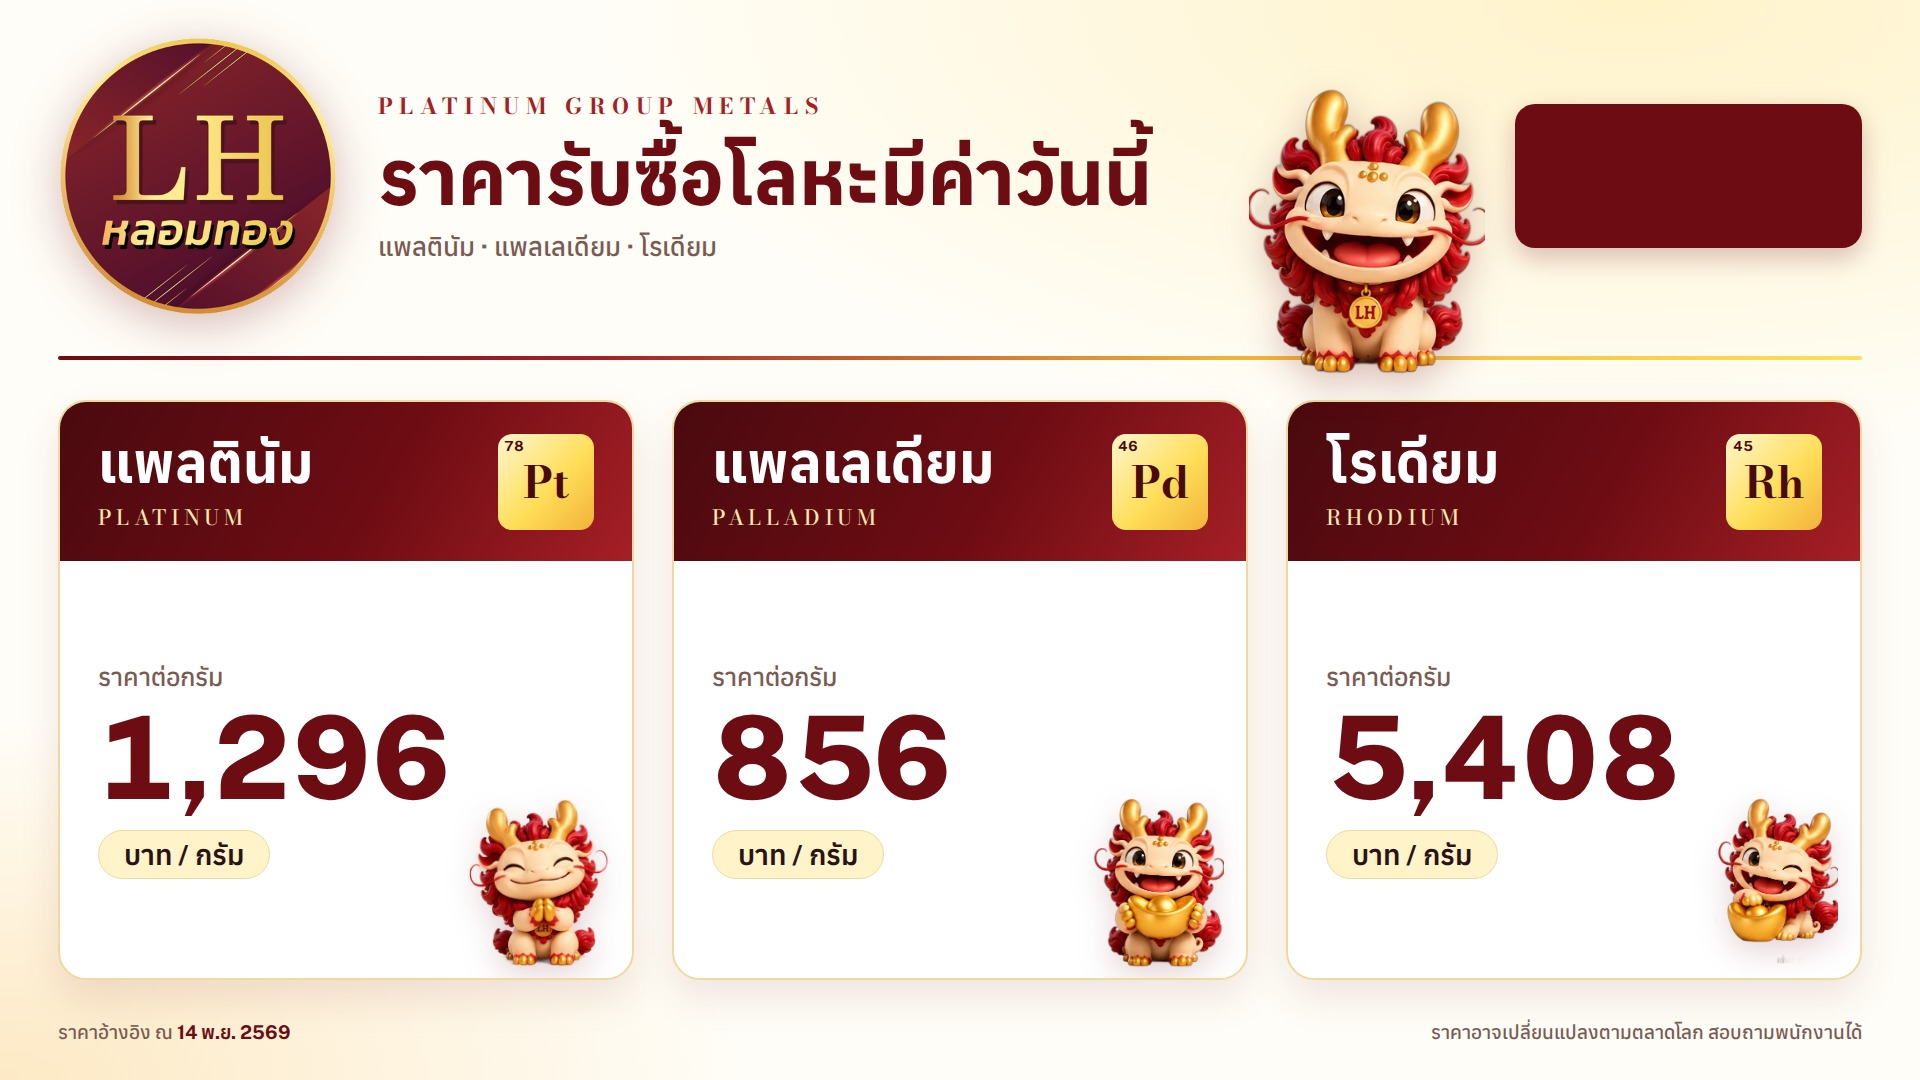
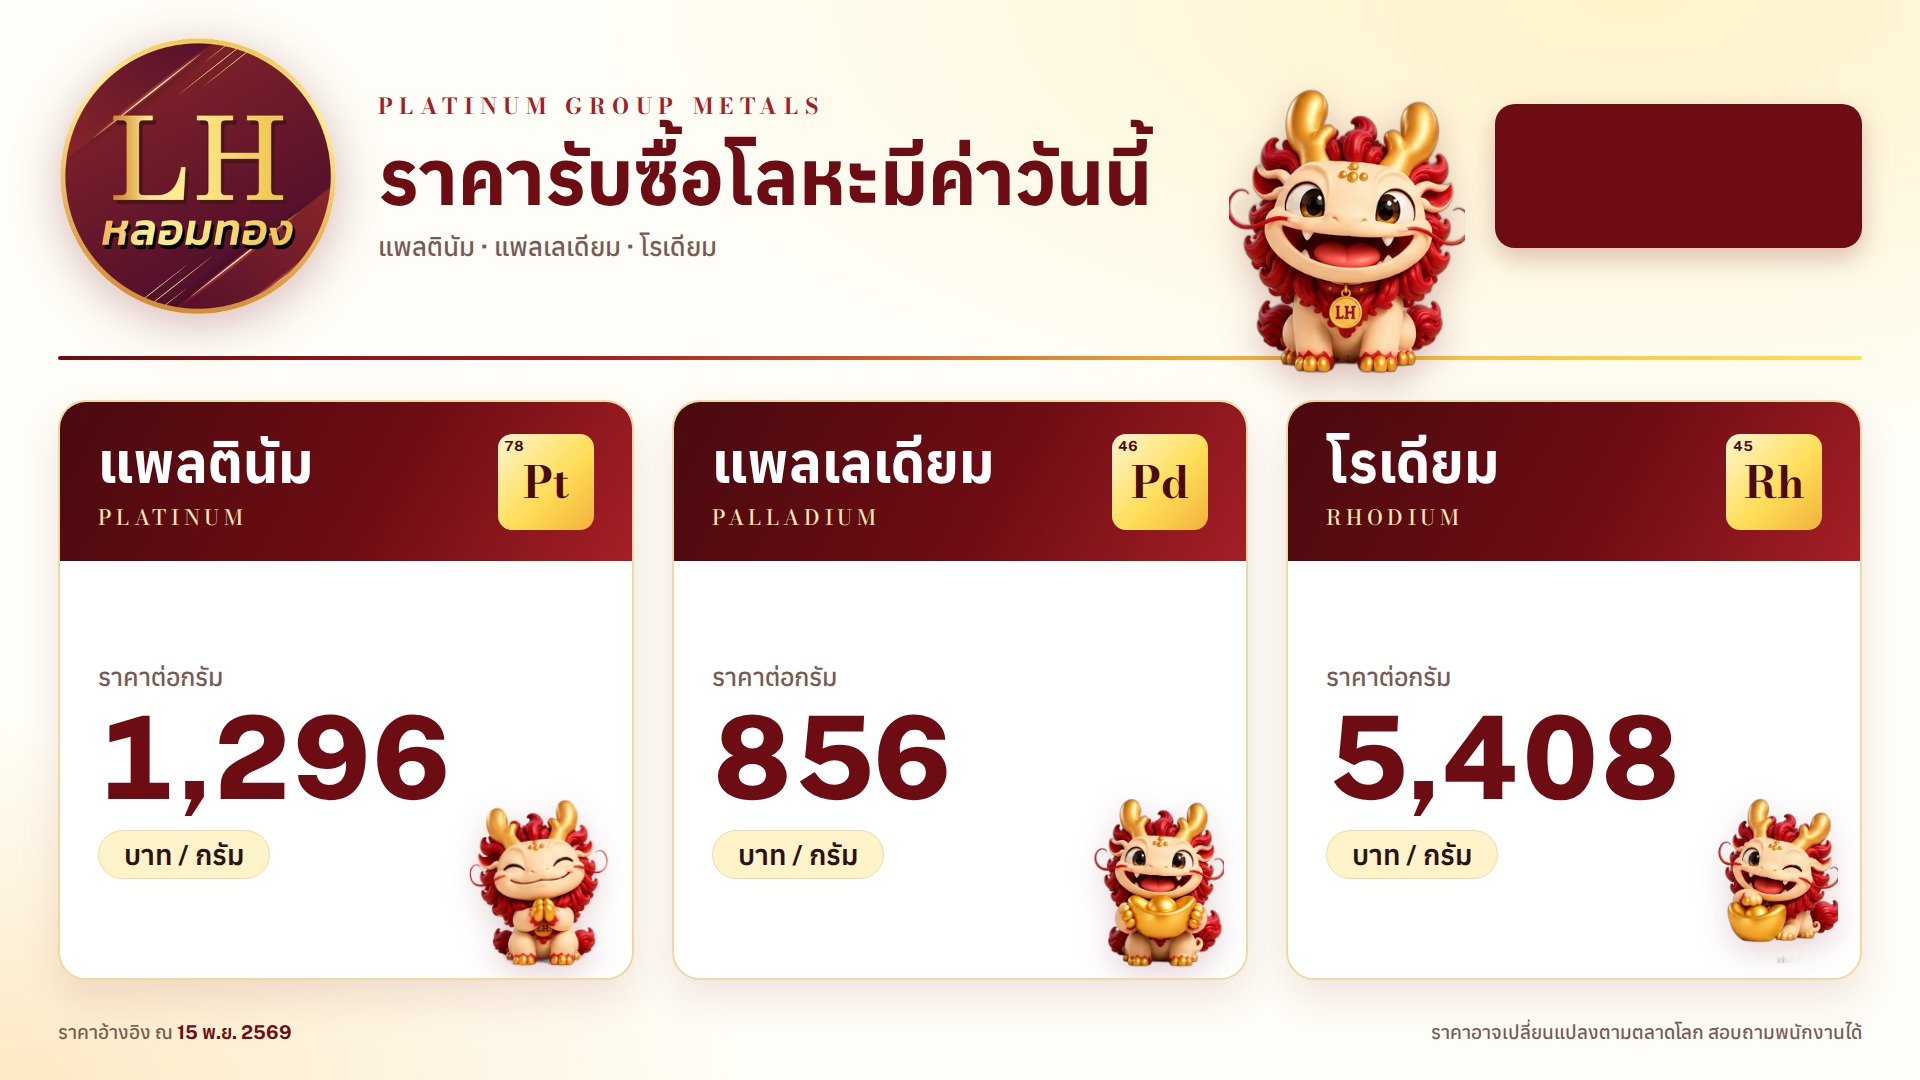
Update prices 2026-11-15

Changed region(s): [[0.625, 0.0611, 0.8125, 0.3667], [0.0938, 0.9472, 0.1562, 0.9778]]

diff --git a/board.html b/board.html
@@ -302,7 +302,7 @@ html{-webkit-text-size-adjust:100%;text-size-adjust:100%}
      ราคาแต่ละเกรด = ราคาเงินหลังหัก × เปอร์เซ็นต์ (99.99% ใช้ราคาเต็ม)
    showSilver = เปิด/ปิดหน้าราคาเงิน, rotateSeconds = เปลี่ยนหน้าทุกกี่วินาที */
 const CONFIG = {
-  asOf: "14 พ.ย. 2569",
+  asOf: "15 พ.ย. 2569",
   fx: 33.88,
   discount: 0.20,
   rotateSeconds: 15,
